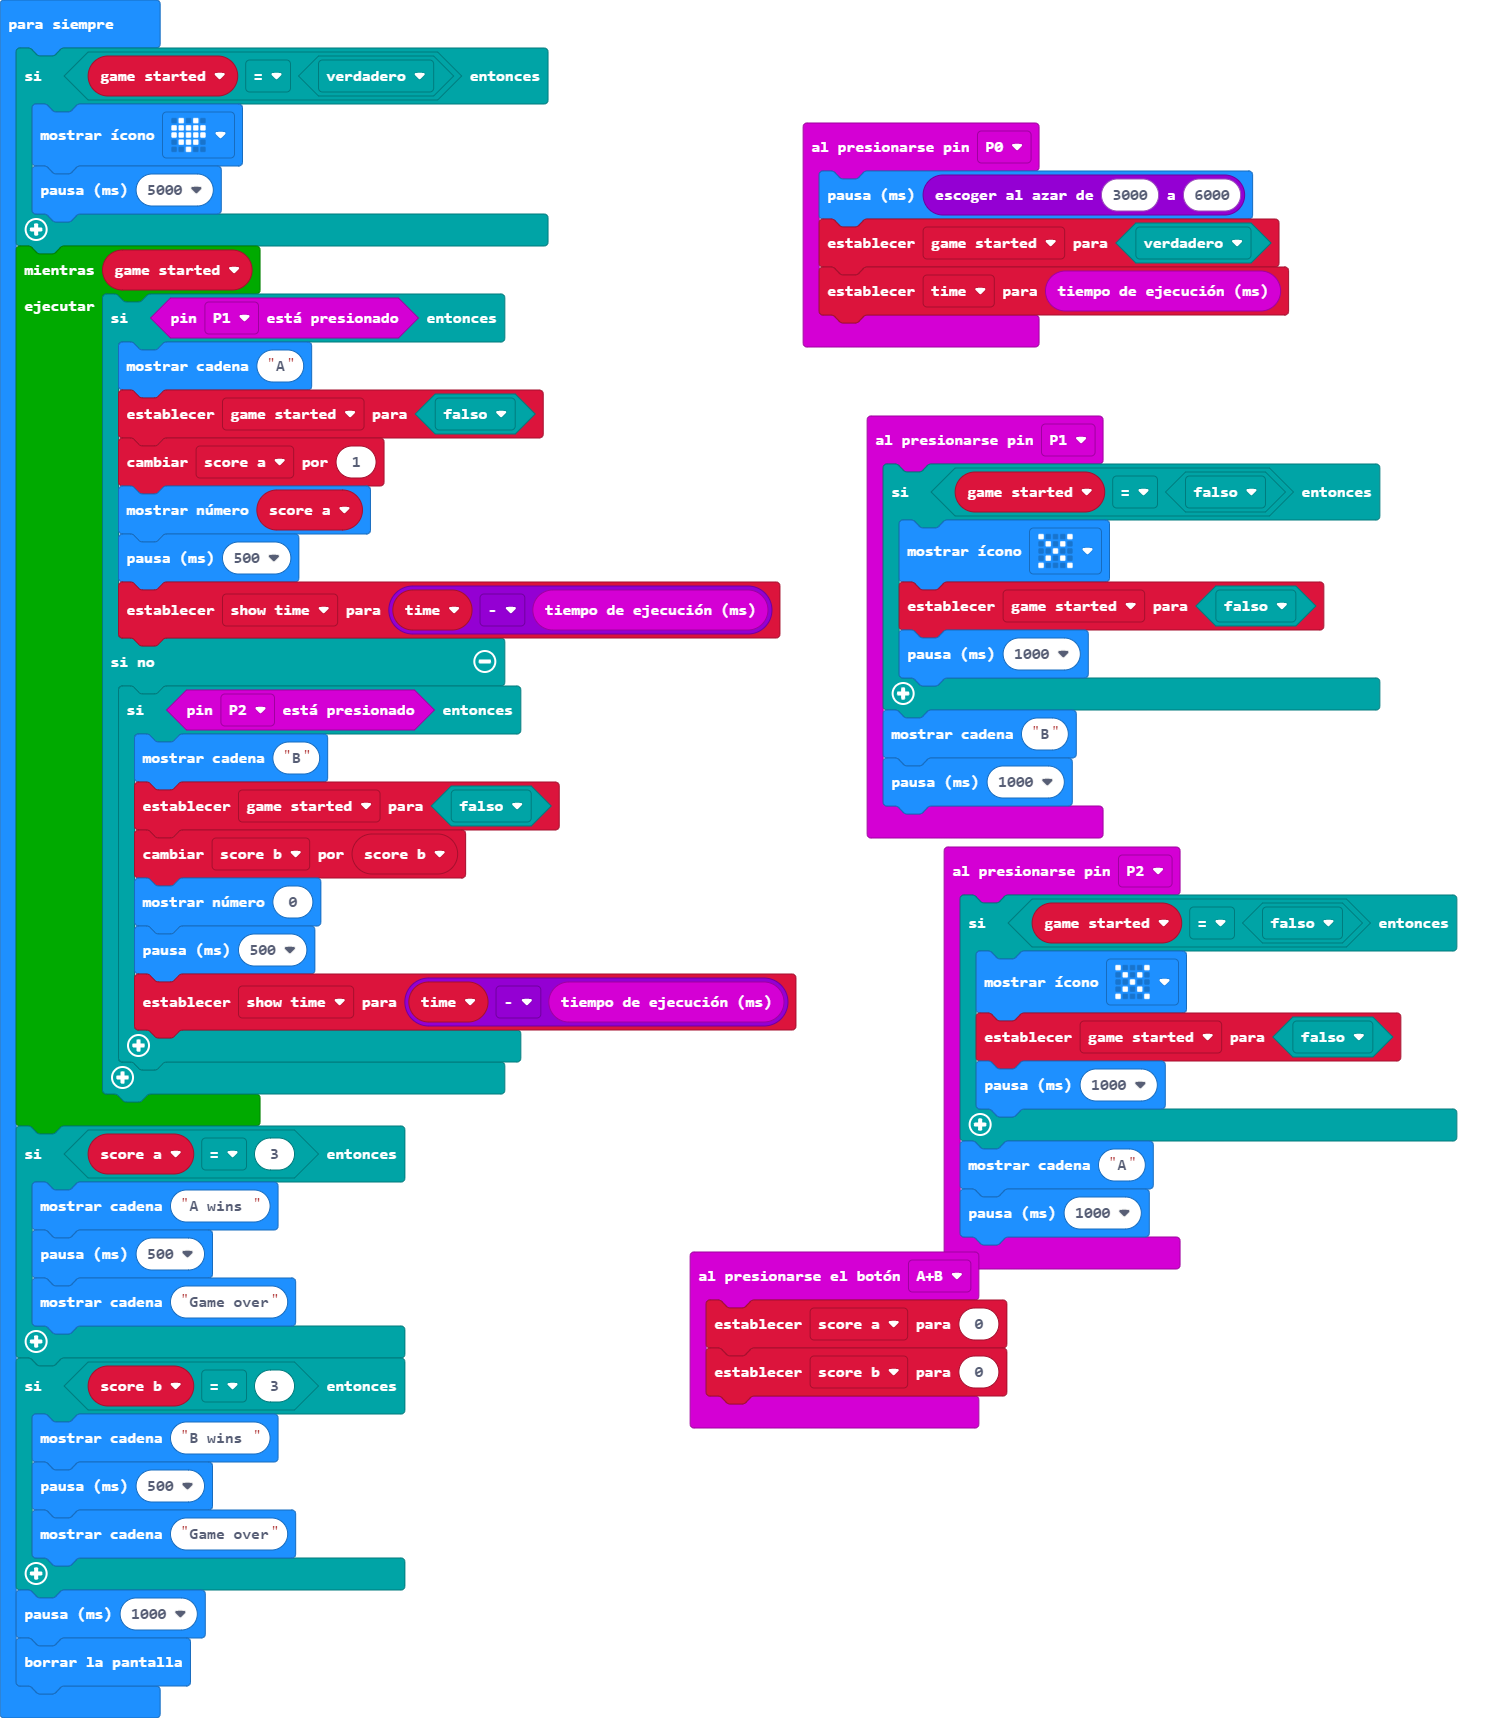
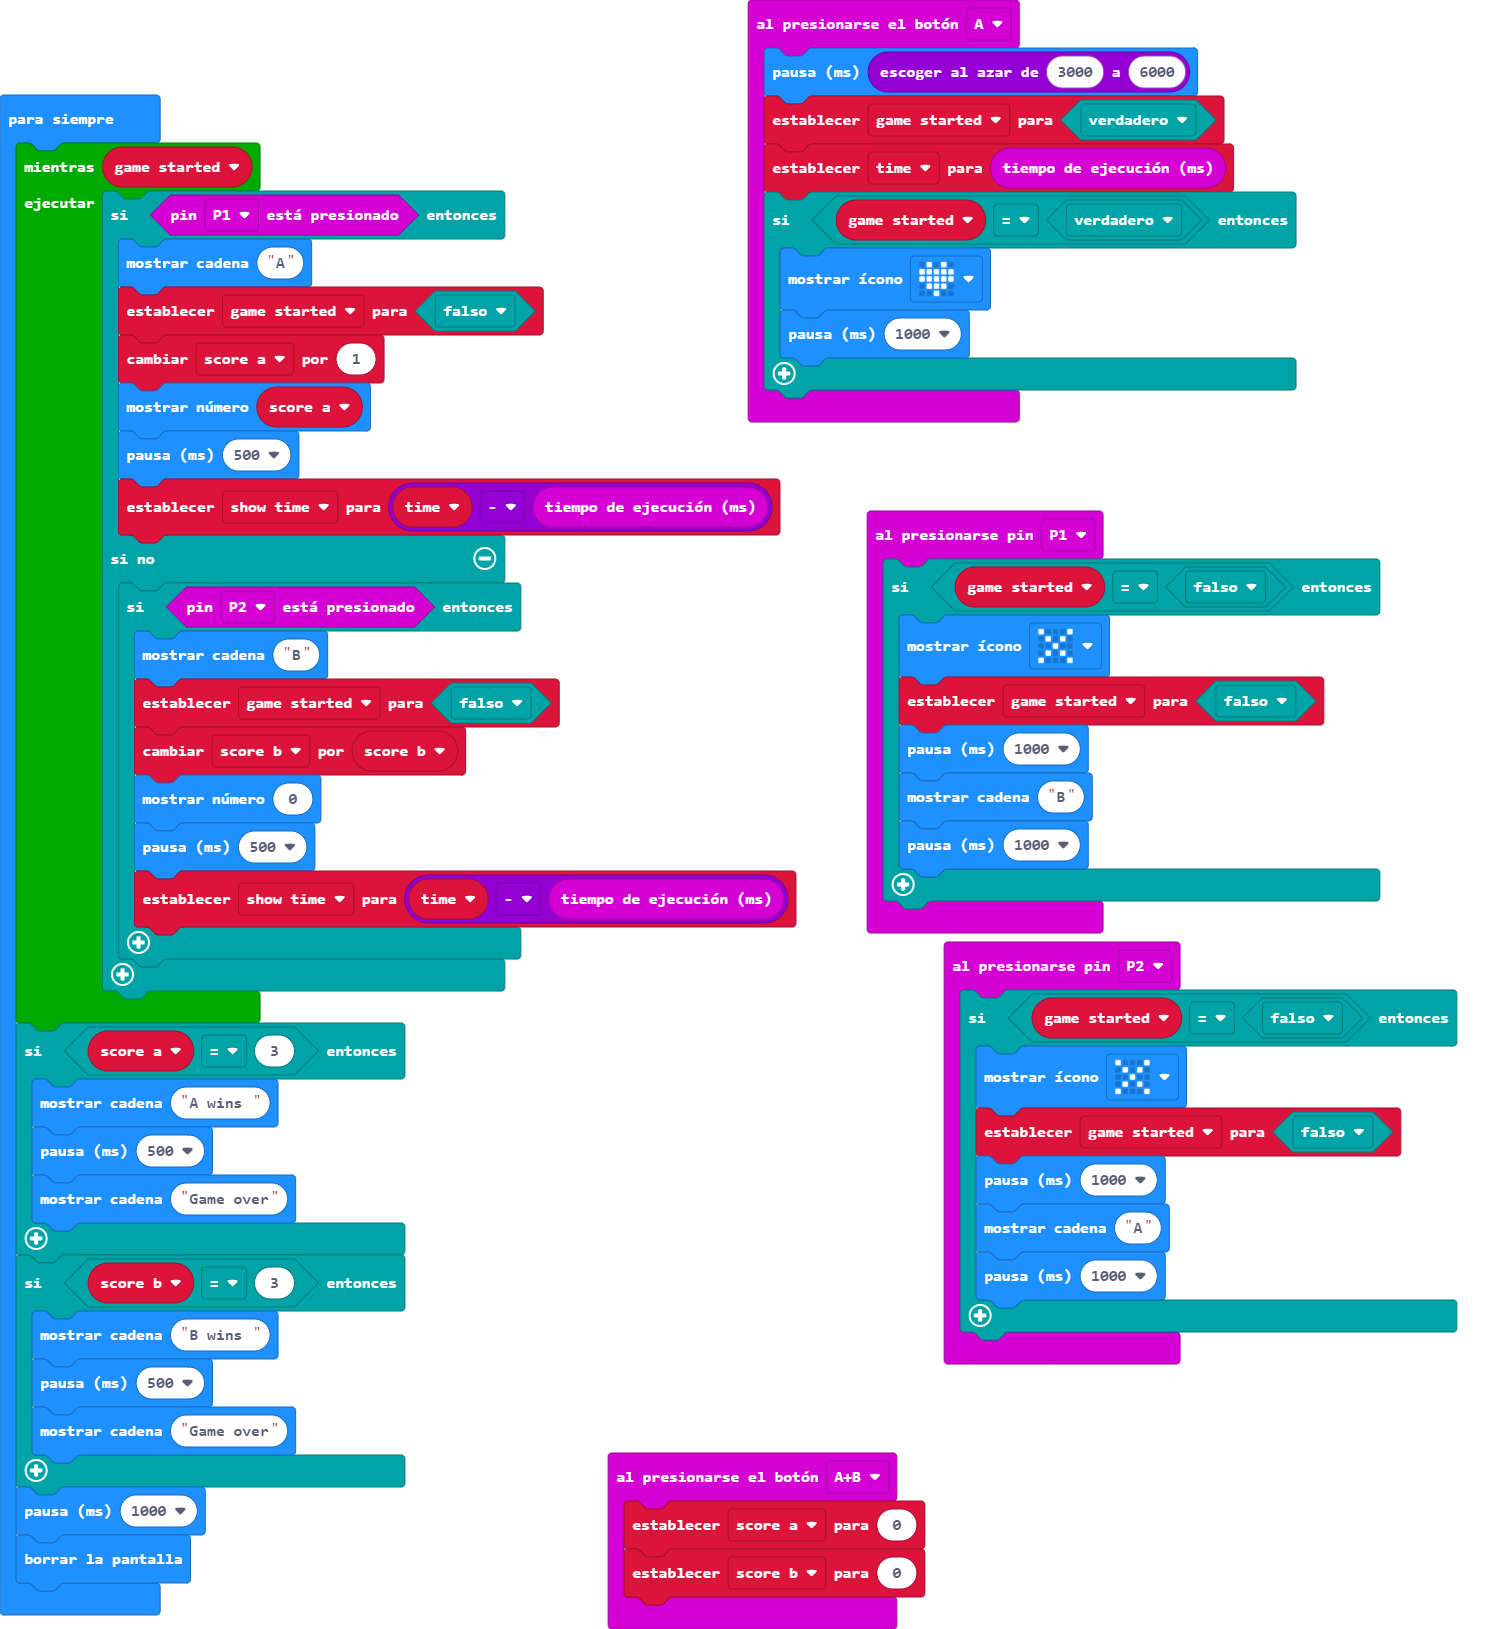
Actualizar pxt.json, main.blocks, main.ts, main.py

diff --git a/main.ts b/main.ts
@@ -3,19 +3,23 @@ let time = 0
 let score_a = 0
 let score_b = 0
 let show_time = 0
-input.onPinPressed(TouchPin.P0, function () {
+input.onButtonPressed(Button.A, function () {
     basic.pause(randint(3000, 6000))
     game_started = true
     time = input.runningTime()
+    if (game_started == true) {
+        basic.showIcon(IconNames.Heart)
+        basic.pause(1000)
+    }
 })
 input.onPinPressed(TouchPin.P2, function () {
     if (game_started == false) {
         basic.showIcon(IconNames.No)
         game_started = false
         basic.pause(1000)
+        basic.showString("A")
+        basic.pause(1000)
     }
-    basic.showString("A")
-    basic.pause(1000)
 })
 input.onButtonPressed(Button.AB, function () {
     score_a = 0
@@ -26,15 +30,11 @@ input.onPinPressed(TouchPin.P1, function () {
         basic.showIcon(IconNames.No)
         game_started = false
         basic.pause(1000)
+        basic.showString("B")
+        basic.pause(1000)
     }
-    basic.showString("B")
-    basic.pause(1000)
 })
 basic.forever(function () {
-    if (game_started == true) {
-        basic.showIcon(IconNames.Heart)
-        basic.pause(5000)
-    }
     while (game_started) {
         if (input.pinIsPressed(TouchPin.P1)) {
             basic.showString("A")

diff --git a/main.py b/main.py
@@ -1,0 +1,71 @@
+game_started = False
+time = 0
+score_a = 0
+score_b = 0
+show_time = 0
+
+def on_button_pressed_a():
+    global game_started, time
+    basic.pause(randint(3000, 6000))
+    game_started = True
+    time = input.running_time()
+    if game_started == True:
+        basic.show_icon(IconNames.HEART)
+        basic.pause(1000)
+input.on_button_pressed(Button.A, on_button_pressed_a)
+
+def on_pin_pressed_p2():
+    global game_started
+    if game_started == False:
+        basic.show_icon(IconNames.NO)
+        game_started = False
+        basic.pause(1000)
+    basic.show_string("A")
+    basic.pause(1000)
+input.on_pin_pressed(TouchPin.P2, on_pin_pressed_p2)
+
+def on_button_pressed_ab():
+    global score_a, score_b
+    score_a = 0
+    score_b = 0
+input.on_button_pressed(Button.AB, on_button_pressed_ab)
+
+def on_pin_pressed_p1():
+    global game_started
+    if game_started == False:
+        basic.show_icon(IconNames.NO)
+        game_started = False
+        basic.pause(1000)
+    basic.show_string("B")
+    basic.pause(1000)
+input.on_pin_pressed(TouchPin.P1, on_pin_pressed_p1)
+
+def on_forever():
+    global game_started, score_a, show_time, score_b
+    while game_started:
+        if input.pin_is_pressed(TouchPin.P1):
+            basic.show_string("A")
+            game_started = False
+            score_a += 1
+            basic.show_number(score_a)
+            basic.pause(500)
+            show_time = time - input.running_time()
+        else:
+            if input.pin_is_pressed(TouchPin.P2):
+                basic.show_string("B")
+                game_started = False
+                score_b += score_b
+                basic.show_number(0)
+                basic.pause(500)
+                show_time = time - input.running_time()
+    if score_a == 3:
+        basic.show_string("A wins ")
+        basic.pause(500)
+        basic.show_string("Game over")
+    if score_b == 3:
+        basic.show_string("B wins ")
+        basic.pause(500)
+        basic.show_string("Game over")
+    basic.pause(1000)
+    basic.clear_screen()
+basic.forever(on_forever)
